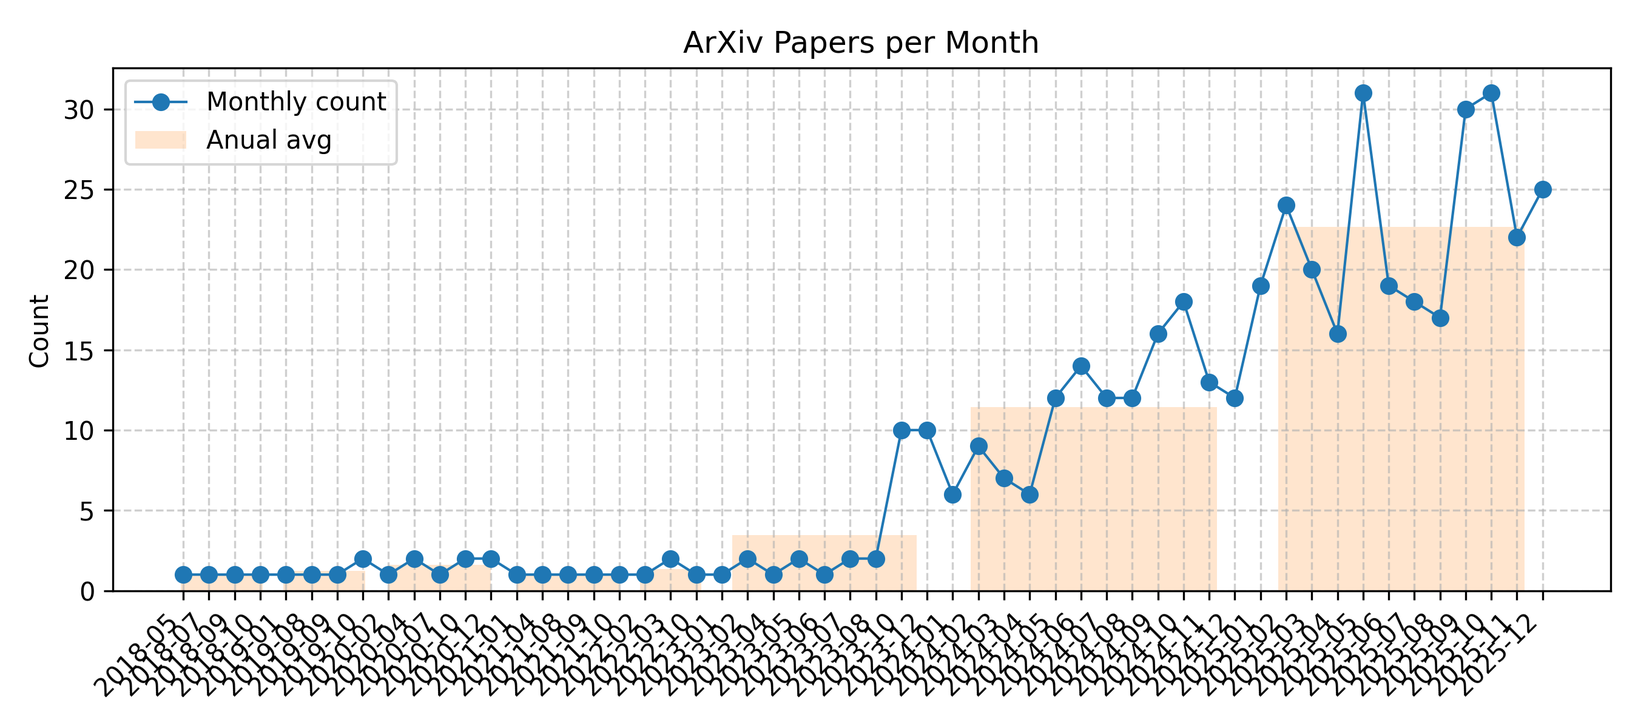
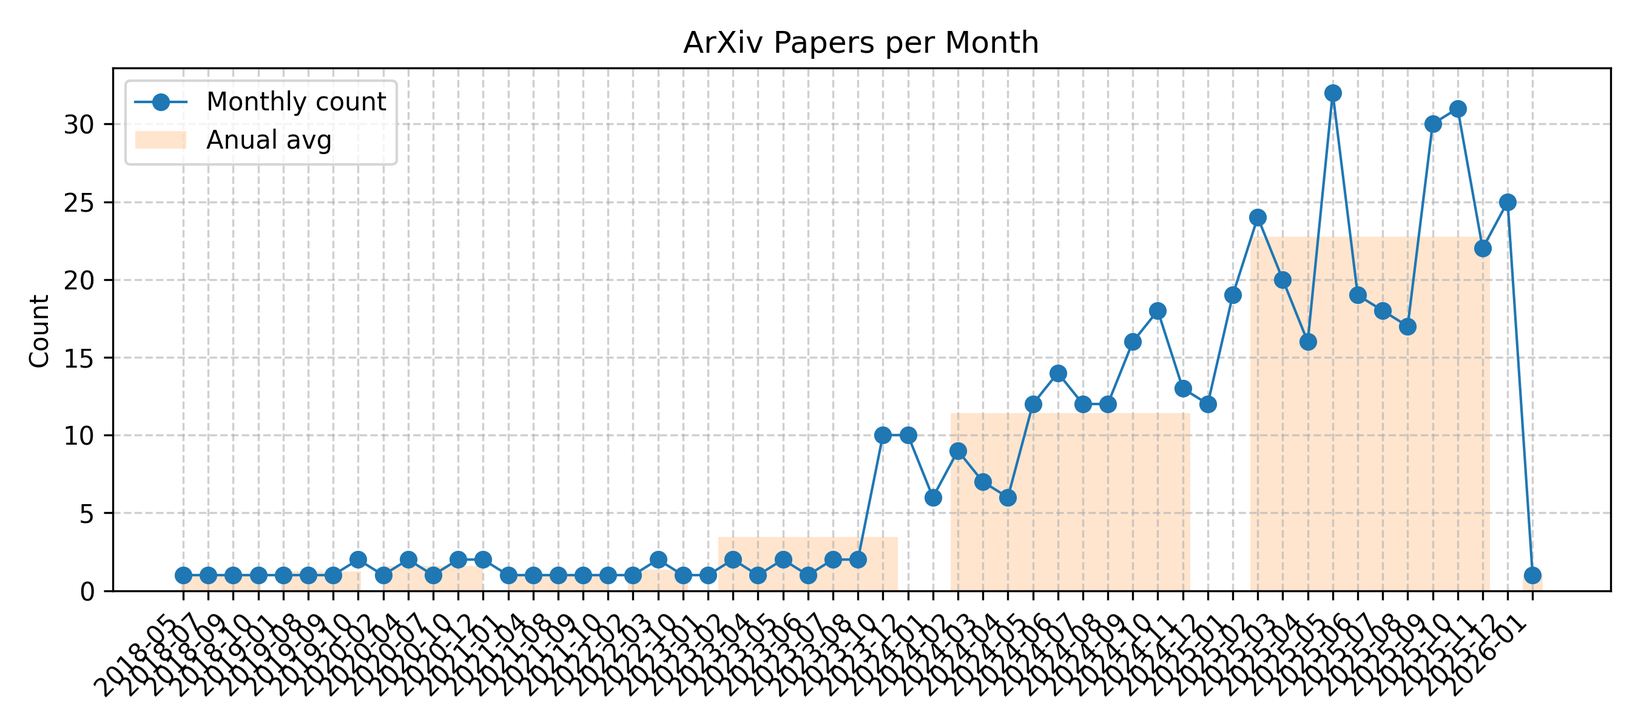
Github Action Automatic Update Mobile NPU LLM Arxiv Papers

diff --git a/README.md b/README.md
@@ -5,7 +5,7 @@
 
 For more carefully curated articles, you can refer to this [repository](https://github.com/bansky-cl/Mobile_NPU_LLM_Papers).
 
-## Updated on 2026.01.07
+## Updated on 2026.01.09
 
 ![Monthly Trend](imgs/trend.png)
 
@@ -17,7 +17,7 @@ For more carefully curated articles, you can refer to this [repository](https://
 |**2025-09-27**|**Scaling LLM Test-Time Compute with Mobile NPU on Smartphones**|cs.DC, cs.AI| <details><summary>Full Abstract</summary>Deploying Large Language Models (LLMs) on mobile devices faces the challenge of insufficient performance in smaller models and excessive resource consumption in larger ones. This paper highlights that mobile Neural Processing Units (NPUs) have underutilized computational resources, particularly their matrix multiplication units, during typical LLM inference. To leverage this wasted compute capacity, we propose applying parallel test-time scaling techniques on mobile NPUs to enhance the performance of smaller LLMs. However, this approach confronts inherent NPU challenges, including inadequate hardware support for fine-grained quantization and low efficiency in general-purpose computations. To overcome these, we introduce two key techniques: a hardware-aware tile quantization scheme that aligns group quantization with NPU memory access patterns, and efficient LUT-based replacements for complex operations such as Softmax and dequantization. We design and implement an end-to-end inference system that leverages the NPU's compute capability to support test-time scaling on Qualcomm Snapdragon platforms. Experiments show our approach brings significant speedups: up to 19.0 for mixed-precision GEMM and 2.2 for Softmax. More importantly, we demonstrate that smaller models using test-time scaling can match or exceed the accuracy of larger models, achieving a new performance-cost Pareto frontier.</details>|[2509.23324v1](http://arxiv.org/abs/2509.23324v1)| null|
 |**2024-12-15**|**Fast On-device LLM Inference with NPUs**|cs.AI| <details><summary>Full Abstract</summary>On-device inference for Large Language Models (LLMs), driven by increasing privacy concerns and advancements of mobile-sized models, has gained significant interest. However, even mobile-sized LLMs (e.g., Gemma-2B) encounter unacceptably high inference latency, often bottlenecked by the prefill stage in tasks like screen UI understanding.   We present llm.npu, the first LLM inference system utilizing on-device Neural Processing Unit (NPU) offloading to reduce prefill latency. llm.npu enhances NPU offloading efficiency by re-constructing the prompt and model in three levels: (1) At prompt level, it divides variable-length prompts into multiple fixed-sized chunks while maintaining data dependencies; (2) At tensor level, it identifies and extracts significant outliers to run on the CPU/GPU in parallel with minimal overhead; (3) At block level, it schedules Transformer blocks in an out-of-order manner to the CPU/GPU and NPU based on their hardware affinity and sensitivity to accuracy. Compared to competitive baselines, llm.npu achieves 22.4x faster prefill speed and 30.7$\times$ energy savings on average, and up to 32.8x speedup in an end-to-end real-world application. For the first time, llm.npu achieves more than 1,000 tokens/sec prefilling for a billion-sized model.</details>|[2407.05858v2](http://arxiv.org/abs/2407.05858v2)| null|
 
-<p align=right>(<a href=#Updated-on-20260107>back to top</a>)</p>
+<p align=right>(<a href=#Updated-on-20260109>back to top</a>)</p>
 
 ## mobile_optimization
 
@@ -54,7 +54,7 @@ For more carefully curated articles, you can refer to this [repository](https://
 |**2020-11-30**|**Extreme Model Compression for On-device Natural Language Understanding**|cs.CL, cs.AI, cs.LG| <details><summary>Full Abstract</summary>In this paper, we propose and experiment with techniques for extreme compression of neural natural language understanding (NLU) models, making them suitable for execution on resource-constrained devices. We propose a task-aware, end-to-end compression approach that performs word-embedding compression jointly with NLU task learning. We show our results on a large-scale, commercial NLU system trained on a varied set of intents with huge vocabulary sizes. Our approach outperforms a range of baselines and achieves a compression rate of 97.4% with less than 3.7% degradation in predictive performance. Our analysis indicates that the signal from the downstream task is important for effective compression with minimal degradation in performance.</details>|[2012.00124v1](http://arxiv.org/abs/2012.00124v1)| null|
 |**2018-09-27**|**Adaptive Pruning of Neural Language Models for Mobile Devices**|cs.CL, cs.LG| <details><summary>Full Abstract</summary>Neural language models (NLMs) exist in an accuracy-efficiency tradeoff space where better perplexity typically comes at the cost of greater computation complexity. In a software keyboard application on mobile devices, this translates into higher power consumption and shorter battery life. This paper represents the first attempt, to our knowledge, in exploring accuracy-efficiency tradeoffs for NLMs. Building on quasi-recurrent neural networks (QRNNs), we apply pruning techniques to provide a "knob" to select different operating points. In addition, we propose a simple technique to recover some perplexity using a negligible amount of memory. Our empirical evaluations consider both perplexity as well as energy consumption on a Raspberry Pi, where we demonstrate which methods provide the best perplexity-power consumption operating point. At one operating point, one of the techniques is able to provide energy savings of 40% over the state of the art with only a 17% relative increase in perplexity.</details>|[1809.10282v1](http://arxiv.org/abs/1809.10282v1)| null|
 
-<p align=right>(<a href=#Updated-on-20260107>back to top</a>)</p>
+<p align=right>(<a href=#Updated-on-20260109>back to top</a>)</p>
 
 ## edge_inference
 
@@ -124,12 +124,13 @@ For more carefully curated articles, you can refer to this [repository](https://
 |**2025-04-21**|**Agile-Quant: Activation-Guided Quantization for Faster Inference of LLMs on the Edge**|cs.LG, cs.AI, cs.CL| <details><summary>Full Abstract</summary>Large Language Models (LLMs) stand out for their impressive performance in intricate language modeling tasks. However, their demanding computational and memory needs pose obstacles for broad use on edge devices. Quantization is then introduced to boost LLMs' on-device efficiency. Recent works show that 8-bit or lower weight quantization is feasible with minimal impact on end-to-end task performance, while the activation is still not quantized. On the other hand, mainstream commodity edge devices still struggle to execute these sub-8-bit quantized networks effectively. In this paper, we propose Agile-Quant, an activation-guided quantization framework for popular Large Language Models (LLMs), and implement an end-to-end accelerator on multiple edge devices for faster inference. Considering the hardware profiling and activation analysis, we first introduce a basic activation quantization strategy to balance the trade-off of task performance and real inference speed. Then we leverage the activation-aware token pruning technique to reduce the outliers and the adverse impact on attentivity. Ultimately, we utilize the SIMD-based 4-bit multiplier and our efficient TRIP matrix multiplication to implement the accelerator for LLMs on the edge. We apply our framework on different scales of LLMs including LLaMA, OPT, and BLOOM with 4-bit or 8-bit for the activation and 4-bit for the weight quantization. Experiments show that Agile-Quant achieves simultaneous quantization of model weights and activations while maintaining task performance comparable to existing weight-only quantization methods. Moreover, in the 8- and 4-bit scenario, Agile-Quant achieves an on-device speedup of up to 2.55x compared to its FP16 counterparts across multiple edge devices, marking a pioneering advancement in this domain. Code: https://github.com/shawnricecake/agile-quant</details>|[2312.05693v2](http://arxiv.org/abs/2312.05693v2)| null|
 |**2023-12-01**|**LinguaLinked: A Distributed Large Language Model Inference System for Mobile Devices**|cs.LG, cs.DC, cs.NI| <details><summary>Full Abstract</summary>Deploying Large Language Models (LLMs) locally on mobile devices presents a significant challenge due to their extensive memory requirements. In this paper, we introduce LinguaLinked, a system for decentralized, distributed LLM inference on mobile devices. LinguaLinked enables collaborative execution of the inference task across multiple trusted devices. LinguaLinked ensures data privacy by processing information locally. LinguaLinked uses three key strategies. First, an optimized model assignment technique segments LLMs and uses linear optimization to align segments with each device's capabilities. Second, an optimized data transmission mechanism ensures efficient and structured data flow between model segments while also maintaining the integrity of the original model structure. Finally, LinguaLinked incorporates a runtime load balancer that actively monitors and redistributes tasks among mobile devices to prevent bottlenecks, enhancing the system's overall efficiency and responsiveness. We demonstrate that LinguaLinked facilitates efficient LLM inference while maintaining consistent throughput and minimal latency through extensive testing across various mobile devices, from high-end to low-end Android devices. In our evaluations, compared to the baseline, LinguaLinked achieves an inference performance acceleration of $1.11\times$ to $1.61\times$ in single-threaded settings, $1.73\times$ to $2.65\times$ with multi-threading. Additionally, runtime load balancing yields an overall inference acceleration of $1.29\times$ to $1.32\times$.</details>|[2312.00388v1](http://arxiv.org/abs/2312.00388v1)| null|
 
-<p align=right>(<a href=#Updated-on-20260107>back to top</a>)</p>
+<p align=right>(<a href=#Updated-on-20260109>back to top</a>)</p>
 
 ## npu_acceleration
 
 |Date|Title|label|Abstract|PDF|Code|
 |---|---|---|---|---|---|
+|**2026-01-08**|**GPU-Accelerated INT8 Quantization for KV Cache Compression in Large Language Models**|cs.LG, cs.PF| <details><summary>Full Abstract</summary>The key-value (KV) cache in large language models presents a significant memory bottleneck during inference, growing linearly with sequence length and often exceeding the memory footprint of model weights themselves. We implement and evaluate GPU-accelerated INT8 quantization for KV cache compression, achieving 4$\times$ memory reduction with minimal accuracy degradation. We develop four CUDA kernel variants -- naive, tiled, coarsened, and vectorized -- and benchmark them across realistic workload sizes up to 1 billion elements. Our vectorized kernel achieves up to 1,694$\times$ speedup over CPU baselines while maintaining reconstruction error below 0.004 and attention score error below 0.1 even for 8K-dimensional heads. These results demonstrate that INT8 quantization provides a practical approach for reducing memory pressure in LLM inference with negligible computational overhead (6--58ms) and minimal impact on downstream model behavior</details>|[2601.04719v1](http://arxiv.org/abs/2601.04719v1)| null|
 |**2025-12-28**|**Accelerating Language Model Workflows with Prompt Choreography**|cs.CL| <details><summary>Full Abstract</summary>Large language models are increasingly deployed in multi-agent workflows. We introduce Prompt Choreography, a framework that efficiently executes LLM workflows by maintaining a dynamic, global KV cache. Each LLM call can attend to an arbitrary, reordered subset of previously encoded messages. Parallel calls are supported. Though caching messages' encodings sometimes gives different results from re-encoding them in a new context, we show in diverse settings that fine-tuning the LLM to work with the cache can help it mimic the original results. Prompt Choreography significantly reduces per-message latency (2.0--6.2$\times$ faster time-to-first-token) and achieves substantial end-to-end speedups ($>$2.2$\times$) in some workflows dominated by redundant computation.</details>|[2512.23049v1](http://arxiv.org/abs/2512.23049v1)| null|
 |**2025-12-23**|**ActionFlow: A Pipelined Action Acceleration for Vision Language Models on Edge**|cs.AI, cs.RO| <details><summary>Full Abstract</summary>Vision-Language-Action (VLA) models have emerged as a unified paradigm for robotic perception and control, enabling emergent generalization and long-horizon task execution. However, their deployment in dynamic, real-world environments is severely hin dered by high inference latency. While smooth robotic interaction requires control frequencies of 20 to 30 Hz, current VLA models typi cally operate at only 3-5 Hz on edge devices due to the memory bound nature of autoregressive decoding. Existing optimizations often require extensive retraining or compromise model accuracy. To bridge this gap, we introduce ActionFlow, a system-level inference framework tailored for resource-constrained edge plat forms. At the core of ActionFlow is a Cross-Request Pipelin ing strategy, a novel scheduler that redefines VLA inference as a macro-pipeline of micro-requests. The strategy intelligently batches memory-bound Decode phases with compute-bound Prefill phases across continuous time steps to maximize hardware utilization. Furthermore, to support this scheduling, we propose a Cross Request State Packed Forward operator and a Unified KV Ring Buffer, which fuse fragmented memory operations into efficient dense computations. Experimental results demonstrate that ActionFlow achieves a 2.55x improvement in FPS on the OpenVLA-7B model without retraining, enabling real-time dy namic manipulation on edge hardware. Our work is available at https://anonymous.4open.science/r/ActionFlow-1D47.</details>|[2512.20276v1](http://arxiv.org/abs/2512.20276v1)| null|
 |**2025-12-19**|**GreedySnake: Accelerating SSD-Offloaded LLM Training with Efficient Scheduling and Optimizer Step Overlapping**|cs.LG, cs.AI, cs.PF| <details><summary>Full Abstract</summary>SSD-offloaded training offers a practical and promising approach to making LLM training cost-effective. Building on gradient accumulation with micro-batches, this paper introduces GreedySnake, a new SSD-offloaded training system that employs vertical scheduling, which executes all microbatches of a layer before proceeding to the next. Compared to existing systems that use horizontal scheduling (i.e., executing micro-batches sequentially), GreedySnake achieves higher training throughput with smaller batch sizes, bringing the system much closer to the ideal scenario predicted by the roofline model. To further mitigate the I/O bottleneck, GreedySnake overlaps part of the optimization step with the forward pass of the next iteration. Experimental results on A100 GPUs show that GreedySnake achieves saturated training throughput improvements over ZeRO-Infinity: 1.96x on 1 GPU and 1.93x on 4 GPUs for GPT-65B, and 2.53x on 1 GPU for GPT-175B. The code is open-sourced at https://github.com/npz7yyk/GreedySnake</details>|[2512.17570v1](http://arxiv.org/abs/2512.17570v1)| null|
@@ -246,6 +247,7 @@ For more carefully curated articles, you can refer to this [repository](https://
 |**2025-10-25**|**SUMO: Subspace-Aware Moment-Orthogonalization for Accelerating Memory-Efficient LLM Training**|cs.LG, cs.CL, math.OC| <details><summary>Full Abstract</summary>Low-rank gradient-based optimization methods have significantly improved memory efficiency during the training of large language models (LLMs), enabling operations within constrained hardware without sacrificing performance. However, these methods primarily emphasize memory savings, often overlooking potential acceleration in convergence due to their reliance on standard isotropic steepest descent techniques, which can perform suboptimally in the highly anisotropic landscapes typical of deep networks, particularly LLMs. In this paper, we propose SUMO (Subspace-Aware Moment-Orthogonalization), an optimizer that employs exact singular value decomposition (SVD) for moment orthogonalization within a dynamically adapted low-dimensional subspace, enabling norm-inducing steepest descent optimization steps. By explicitly aligning optimization steps with the spectral characteristics of the loss landscape, SUMO effectively mitigates approximation errors associated with commonly used methods like Newton-Schulz orthogonalization approximation. We theoretically establish an upper bound on these approximation errors, proving their dependence on the condition numbers of moments, conditions we analytically demonstrate are encountered during LLM training. Furthermore, we both theoretically and empirically illustrate that exact orthogonalization via SVD substantially improves convergence rates while reducing overall complexity. Empirical evaluations confirm that SUMO accelerates convergence, enhances stability, improves performance, and reduces memory requirements by up to 20% compared to state-of-the-art methods.</details>|[2505.24749v2](http://arxiv.org/abs/2505.24749v2)| null|
 |**2025-07-03**|**Fast-dLLM: Training-free Acceleration of Diffusion LLM by Enabling KV Cache and Parallel Decoding**|cs.CL| <details><summary>Full Abstract</summary>Diffusion-based large language models (Diffusion LLMs) have shown promise for non-autoregressive text generation with parallel decoding capabilities. However, the practical inference speed of open-sourced Diffusion LLMs often lags behind autoregressive models due to the lack of Key-Value (KV) Cache and quality degradation when decoding multiple tokens simultaneously. To bridge this gap, we introduce a novel block-wise approximate KV Cache mechanism tailored for bidirectional diffusion models, enabling cache reuse with negligible performance drop. Additionally, we identify the root cause of generation quality degradation in parallel decoding as the disruption of token dependencies under the conditional independence assumption. To address this, we propose a confidence-aware parallel decoding strategy that selectively decodes tokens exceeding a confidence threshold, mitigating dependency violations and maintaining generation quality. Experimental results on LLaDA and Dream models across multiple LLM benchmarks demonstrate up to \textbf{27.6$\times$ throughput} improvement with minimal accuracy loss, closing the performance gap with autoregressive models and paving the way for practical deployment of Diffusion LLMs.</details>|[2505.22618v3](http://arxiv.org/abs/2505.22618v3)| null|
 |**2025-10-09**|**FlashDLM: Accelerating Diffusion Language Model Inference via Efficient KV Caching and Guided Diffusion**|cs.CL| <details><summary>Full Abstract</summary>Diffusion language models offer parallel token generation and inherent bidirectionality, promising more efficient and powerful sequence modeling compared to autoregressive approaches. However, state-of-the-art diffusion models (e.g., Dream 7B, LLaDA 8B) suffer from slow inference. While they match the quality of similarly sized autoregressive (AR) models (e.g., Qwen2.5 7B, Llama3 8B), their iterative denoising requires multiple full-sequence forward passes, resulting in high computational costs and latency, particularly for long input prompts and long-context scenarios. Furthermore, parallel token generation introduces token incoherence problems, and current sampling heuristics suffer from significant quality drops with decreasing denoising steps. We address these limitations with two training-free techniques. First, we propose FreeCache, a Key-Value (KV) approximation caching technique that reuses stable KV projections across denoising steps, effectively reducing the computational cost of DLM inference. Second, we introduce Guided Diffusion, a training-free method that uses a lightweight pretrained autoregressive model to supervise token unmasking, dramatically reducing the total number of denoising iterations without sacrificing quality. We conduct extensive evaluations on open-source reasoning benchmarks, and our combined methods deliver an average of 12.14x end-to-end speedup across various tasks with negligible accuracy degradation. For the first time, diffusion language models achieve a comparable and even faster latency as the widely adopted autoregressive models. Our work successfully paved the way for scaling up the diffusion language model to a broader scope of applications across different domains.</details>|[2505.21467v2](http://arxiv.org/abs/2505.21467v2)| null|
+|**2026-01-08**|**Breaking AR's Sampling Bottleneck: Provable Acceleration via Diffusion Language Models**|cs.LG, cs.IT, math.ST, stat.ML| <details><summary>Full Abstract</summary>Diffusion models have emerged as a powerful paradigm for modern generative modeling, demonstrating strong potential for large language models (LLMs). Unlike conventional autoregressive (AR) models that generate tokens sequentially, diffusion models allow for parallel sampling, offering a promising path to accelerate generation and eliminate the left-to-right generation constraints. Despite their empirical success, theoretical understandings of diffusion language models remain underdeveloped. In this work, we develop convergence guarantees for diffusion language models from an information-theoretic perspective. Our analysis demonstrates that the sampling error, measured by the Kullback-Leibler (KL) divergence, decays inversely with the number of iterations $T$ and scales linearly with the mutual information between tokens in the target text sequence. Crucially, our theory covers the regime $T<L$, where $L$ is the text sequence length. This justifies that high-quality samples can be generated with fewer iterations than $L$, thereby breaking the fundamental sampling bottleneck of $L$ steps required by AR models. We further establish matching upper and lower bounds, up to some constant factor, that shows the tightness of our convergence analysis. These results offer novel theoretical insights into the practical effectiveness of diffusion language models.</details>|[2505.21400v2](http://arxiv.org/abs/2505.21400v2)| null|
 |**2025-07-18**|**FireQ: Fast INT4-FP8 Kernel and RoPE-aware Quantization for LLM Inference Acceleration**|cs.LG| <details><summary>Full Abstract</summary>As large language models become increasingly prevalent, memory bandwidth constraints significantly limit inference throughput, motivating post-training quantization (PTQ). In this paper, we propose FireQ, a co-designed PTQ framework and an INT4-FP8 matrix multiplication kernel that accelerates LLM inference across all linear layers. Specifically, FireQ quantizes linear layer weights and key-values to INT4, and activations and queries to FP8, significantly enhancing throughput. Additionally, we introduce a three-stage pipelining for the prefill phase, which modifies the FlashAttention-3 kernel, effectively reducing time-to-first-token in the prefill phase. To minimize accuracy loss from quantization, we develop novel outlier smoothing techniques tailored separately for linear and attention layers. In linear layers, we explicitly use per-tensor scaling to prevent underflow caused by the FP8 quantization scaling factor of INT4 quantization, and channel-wise scaling to compensate for coarse granularity of INT4. In attention layers, we address quantization challenges posed by rotary positional embeddings (RoPE) by combining pre-RoPE and post-RoPE scaling strategies. FireQ significantly outperforms state-of-the-art methods, achieving 1.68x faster inference in feed-forward network layers on Llama2-7B and 1.26x faster prefill phase performance on Llama3-8B compared to QServe, with negligible accuracy loss.</details>|[2505.20839v3](http://arxiv.org/abs/2505.20839v3)| null|
 |**2025-05-27**|**Accelerating RL for LLM Reasoning with Optimal Advantage Regression**|cs.LG, cs.AI| <details><summary>Full Abstract</summary>Reinforcement learning (RL) has emerged as a powerful tool for fine-tuning large language models (LLMs) to improve complex reasoning abilities. However, state-of-the-art policy optimization methods often suffer from high computational overhead and memory consumption, primarily due to the need for multiple generations per prompt and the reliance on critic networks or advantage estimates of the current policy. In this paper, we propose $A$*-PO, a novel two-stage policy optimization framework that directly approximates the optimal advantage function and enables efficient training of LLMs for reasoning tasks. In the first stage, we leverage offline sampling from a reference policy to estimate the optimal value function $V$*, eliminating the need for costly online value estimation. In the second stage, we perform on-policy updates using a simple least-squares regression loss with only a single generation per prompt. Theoretically, we establish performance guarantees and prove that the KL-regularized RL objective can be optimized without requiring complex exploration strategies. Empirically, $A$*-PO achieves competitive performance across a wide range of mathematical reasoning benchmarks, while reducing training time by up to 2$\times$ and peak memory usage by over 30% compared to PPO, GRPO, and REBEL. Implementation of $A$*-PO can be found at https://github.com/ZhaolinGao/A-PO.</details>|[2505.20686v1](http://arxiv.org/abs/2505.20686v1)| null|
 |**2025-05-27**|**Can Past Experience Accelerate LLM Reasoning?**|cs.LG, cs.AI| <details><summary>Full Abstract</summary>Allocating more compute to large language models (LLMs) reasoning has generally been demonstrated to improve their effectiveness, but also results in increased inference time. In contrast, humans can perform tasks faster and better with increased experience and exposure. Hence, this paper aims to investigate the question: Can LLMs also become faster at reasoning through recurrent exposure on relevant tasks, and if so, how can it be achieved? To address these questions, we first formalize the problem setting of LLM reasoning speedup systematically in the dimensions of task relevancy and compute budget calculation. We then propose SpeedupLLM, a theoretically guaranteed framework to implement and benchmark such reasoning speedup behaviour based on adaptive compute allocation and memory mechanisms. We further conduct comprehensive experiments to benchmark such behaviour across different question similarity levels, memory methods, and reasoning methods. Results show that LLMs can generally reason faster with past experience, achieving up to a 56% reduction in compute cost when equipped with appropriate memory and reasoning methods.</details>|[2505.20643v1](http://arxiv.org/abs/2505.20643v1)| null|
@@ -473,7 +475,7 @@ For more carefully curated articles, you can refer to this [repository](https://
 |**2019-07-17**|**Understanding and Accelerating Particle-Based Variational Inference**|stat.ML, cs.LG| <details><summary>Full Abstract</summary>Particle-based variational inference methods (ParVIs) have gained attention in the Bayesian inference literature, for their capacity to yield flexible and accurate approximations. We explore ParVIs from the perspective of Wasserstein gradient flows, and make both theoretical and practical contributions. We unify various finite-particle approximations that existing ParVIs use, and recognize that the approximation is essentially a compulsory smoothing treatment, in either of two equivalent forms. This novel understanding reveals the assumptions and relations of existing ParVIs, and also inspires new ParVIs. We propose an acceleration framework and a principled bandwidth-selection method for general ParVIs; these are based on the developed theory and leverage the geometry of the Wasserstein space. Experimental results show the improved convergence by the acceleration framework and enhanced sample accuracy by the bandwidth-selection method.</details>|[1807.01750v4](http://arxiv.org/abs/1807.01750v4)| null|
 |**2019-10-17**|**Ergodic Inference: Accelerate Convergence by Optimisation**|cs.LG, stat.ML| <details><summary>Full Abstract</summary>Statistical inference methods are fundamentally important in machine learning. Most state-of-the-art inference algorithms are variants of Markov chain Monte Carlo (MCMC) or variational inference (VI). However, both methods struggle with limitations in practice: MCMC methods can be computationally demanding; VI methods may have large bias. In this work, we aim to improve upon MCMC and VI by a novel hybrid method based on the idea of reducing simulation bias of finite-length MCMC chains using gradient-based optimisation. The proposed method can generate low-biased samples by increasing the length of MCMC simulation and optimising the MCMC hyper-parameters, which offers attractive balance between approximation bias and computational efficiency. We show that our method produces promising results on popular benchmarks when compared to recent hybrid methods of MCMC and VI.</details>|[1805.10377v4](http://arxiv.org/abs/1805.10377v4)| null|
 
-<p align=right>(<a href=#Updated-on-20260107>back to top</a>)</p>
+<p align=right>(<a href=#Updated-on-20260109>back to top</a>)</p>
 
 ## mobile_llm_systems
 
@@ -505,7 +507,7 @@ For more carefully curated articles, you can refer to this [repository](https://
 |**2024-10-27**|**Large Language Models as Urban Residents: An LLM Agent Framework for Personal Mobility Generation**|cs.AI, cs.CL, cs.CY, cs.LG| <details><summary>Full Abstract</summary>This paper introduces a novel approach using Large Language Models (LLMs) integrated into an agent framework for flexible and effective personal mobility generation. LLMs overcome the limitations of previous models by effectively processing semantic data and offering versatility in modeling various tasks. Our approach addresses three research questions: aligning LLMs with real-world urban mobility data, developing reliable activity generation strategies, and exploring LLM applications in urban mobility. The key technical contribution is a novel LLM agent framework that accounts for individual activity patterns and motivations, including a self-consistency approach to align LLMs with real-world activity data and a retrieval-augmented strategy for interpretable activity generation. We evaluate our LLM agent framework and compare it with state-of-the-art personal mobility generation approaches, demonstrating the effectiveness of our approach and its potential applications in urban mobility. Overall, this study marks the pioneering work of designing an LLM agent framework for activity generation based on real-world human activity data, offering a promising tool for urban mobility analysis.</details>|[2402.14744v3](http://arxiv.org/abs/2402.14744v3)| null|
 |**2023-12-01**|**LinguaLinked: A Distributed Large Language Model Inference System for Mobile Devices**|cs.LG, cs.DC, cs.NI| <details><summary>Full Abstract</summary>Deploying Large Language Models (LLMs) locally on mobile devices presents a significant challenge due to their extensive memory requirements. In this paper, we introduce LinguaLinked, a system for decentralized, distributed LLM inference on mobile devices. LinguaLinked enables collaborative execution of the inference task across multiple trusted devices. LinguaLinked ensures data privacy by processing information locally. LinguaLinked uses three key strategies. First, an optimized model assignment technique segments LLMs and uses linear optimization to align segments with each device's capabilities. Second, an optimized data transmission mechanism ensures efficient and structured data flow between model segments while also maintaining the integrity of the original model structure. Finally, LinguaLinked incorporates a runtime load balancer that actively monitors and redistributes tasks among mobile devices to prevent bottlenecks, enhancing the system's overall efficiency and responsiveness. We demonstrate that LinguaLinked facilitates efficient LLM inference while maintaining consistent throughput and minimal latency through extensive testing across various mobile devices, from high-end to low-end Android devices. In our evaluations, compared to the baseline, LinguaLinked achieves an inference performance acceleration of $1.11\times$ to $1.61\times$ in single-threaded settings, $1.73\times$ to $2.65\times$ with multi-threading. Additionally, runtime load balancing yields an overall inference acceleration of $1.29\times$ to $1.32\times$.</details>|[2312.00388v1](http://arxiv.org/abs/2312.00388v1)| null|
 
-<p align=right>(<a href=#Updated-on-20260107>back to top</a>)</p>
+<p align=right>(<a href=#Updated-on-20260109>back to top</a>)</p>
 
 ## specific_papers
 
@@ -515,7 +517,7 @@ For more carefully curated articles, you can refer to this [repository](https://
 |**2025-10-04**|**Characterizing Mobile SoC for Accelerating Heterogeneous LLM Inference**|cs.DC, cs.AI, cs.LG| <details><summary>Full Abstract</summary>With the rapid advancement of artificial intelligence technologies such as ChatGPT, AI agents, and video generation, contemporary mobile systems have begun integrating these AI capabilities on local devices to enhance privacy and reduce response latency. To meet the computational demands of AI tasks, current mobile SoCs are equipped with diverse AI accelerators, including GPUs and Neural Processing Units (NPUs). However, there has not been a comprehensive characterization of these heterogeneous processors, and existing designs typically only leverage a single AI accelerator for LLM inference, leading to suboptimal use of computational resources and memory bandwidth.   In this paper, we first summarize key performance characteristics of heterogeneous processors, SoC memory bandwidth, etc. Drawing on these observations, we propose different heterogeneous parallel mechanisms to fully exploit both GPU and NPU computational power and memory bandwidth. We further design a fast synchronization mechanism between heterogeneous processors that leverages the unified memory architecture. By employing these techniques, we present HeteroInfer, the fastest LLM inference engine in mobile devices which supports GPU-NPU heterogeneous execution. Evaluation shows that HeteroInfer delivers a 1.34x to 6.02x end-to-end speedup over state-of-the-art GPU-only and NPU-only LLM engines, while maintaining negligible interference with other applications.</details>|[2501.14794v2](http://arxiv.org/abs/2501.14794v2)| null|
 |**2024-12-15**|**Fast On-device LLM Inference with NPUs**|cs.AI| <details><summary>Full Abstract</summary>On-device inference for Large Language Models (LLMs), driven by increasing privacy concerns and advancements of mobile-sized models, has gained significant interest. However, even mobile-sized LLMs (e.g., Gemma-2B) encounter unacceptably high inference latency, often bottlenecked by the prefill stage in tasks like screen UI understanding.   We present llm.npu, the first LLM inference system utilizing on-device Neural Processing Unit (NPU) offloading to reduce prefill latency. llm.npu enhances NPU offloading efficiency by re-constructing the prompt and model in three levels: (1) At prompt level, it divides variable-length prompts into multiple fixed-sized chunks while maintaining data dependencies; (2) At tensor level, it identifies and extracts significant outliers to run on the CPU/GPU in parallel with minimal overhead; (3) At block level, it schedules Transformer blocks in an out-of-order manner to the CPU/GPU and NPU based on their hardware affinity and sensitivity to accuracy. Compared to competitive baselines, llm.npu achieves 22.4x faster prefill speed and 30.7$\times$ energy savings on average, and up to 32.8x speedup in an end-to-end real-world application. For the first time, llm.npu achieves more than 1,000 tokens/sec prefilling for a billion-sized model.</details>|[2407.05858v2](http://arxiv.org/abs/2407.05858v2)| null|
 
-<p align=right>(<a href=#Updated-on-20260107>back to top</a>)</p>
+<p align=right>(<a href=#Updated-on-20260109>back to top</a>)</p>
 
 [contributors-shield]: https://img.shields.io/github/contributors/bansky-cl/mobile-npu-llm-paper-arxiv.svg?style=for-the-badge
 [contributors-url]: https://github.com/bansky-cl/mobile-npu-llm-paper-arxiv/graphs/contributors
